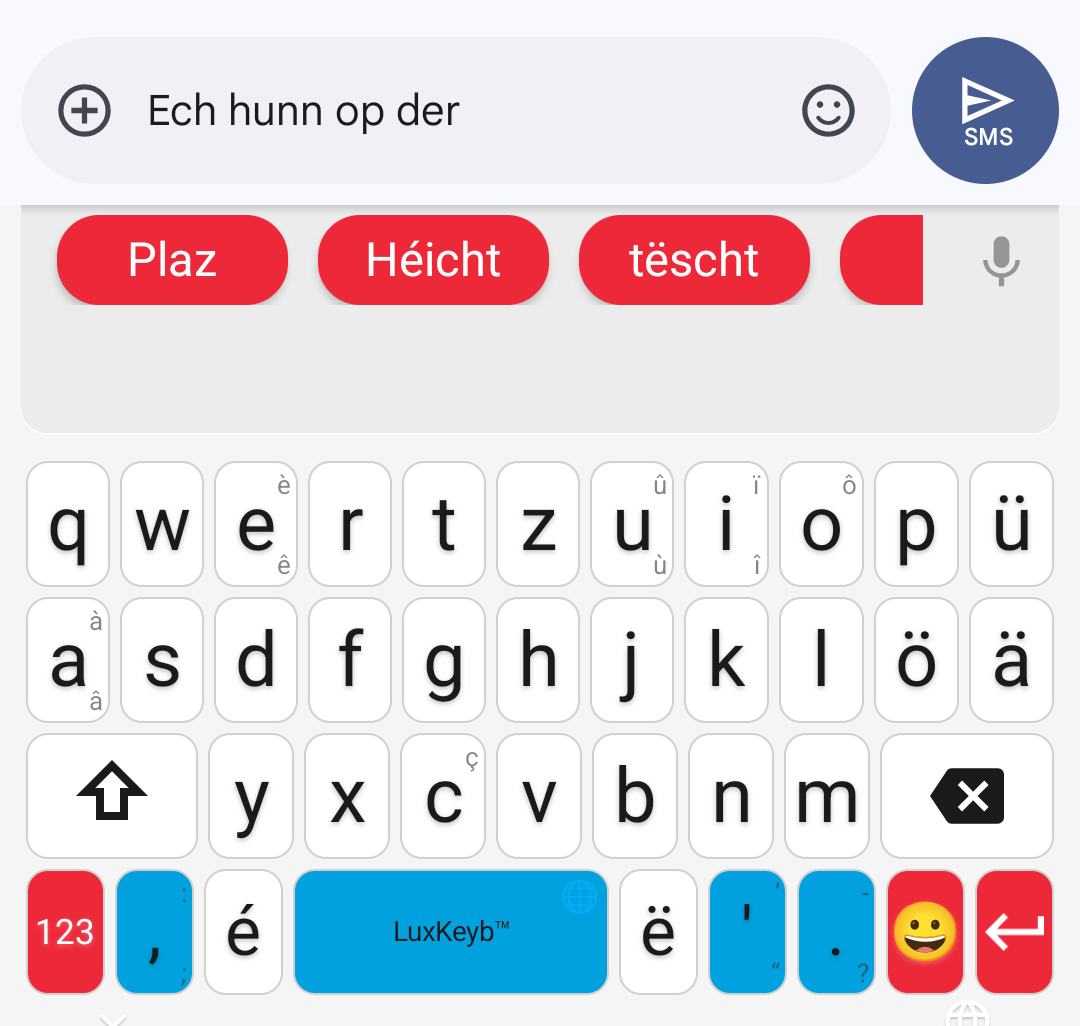
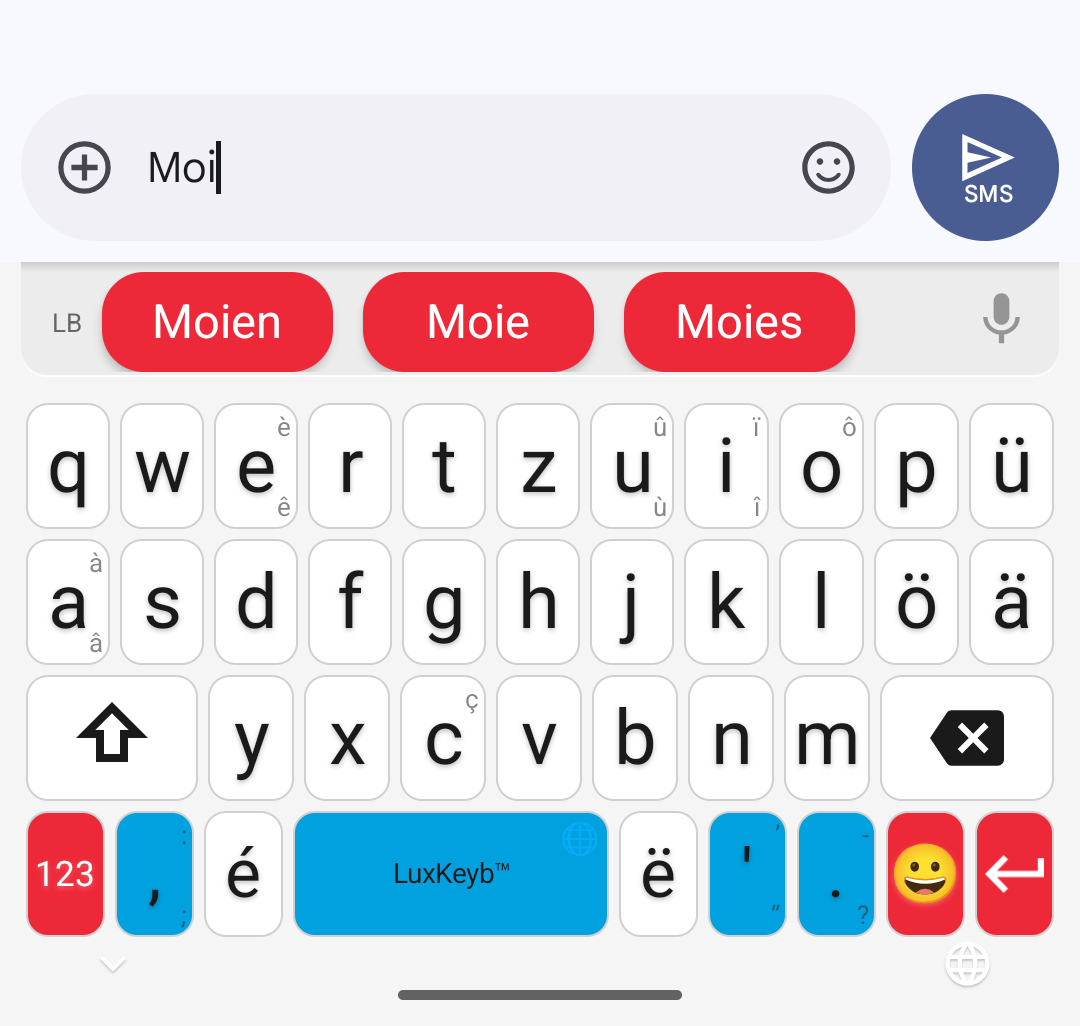
docs(site): le français est une option, plus un comportement par défaut
Depuis la 30.3.0 les propositions en français sont éteintes par défaut :
la page d'accueil et la fiche Play Store promettaient encore une seconde
rangée sans réglage pour « ech hunn eng réunion muer ». Elles disent
maintenant qu'il faut l'allumer (vérifié sur émulateur : « réunion »
arrive alors dès « réu »). La légende de la capture Play n° 1 le dit
aussi. lux_suggestions.png montrait « Ech hunn op der » alors que quatre
pages le décrivent comme la frappe de « Moi » : refait sur émulateur en
configuration par défaut, une seule rangée.

Claude-Session: https://claude.ai/code/session_017v16GDU5NnmPUr6u9MBxF1

Changed region(s): [[0.0, 0.4055, 0.9778, 0.9981], [0.0306, 0.0312, 1.0, 0.3743], [0.0917, 0.9981, 0.1222, 1.0]]

diff --git a/LuxKeybPlayStore/graphics/build_graphics.py b/LuxKeybPlayStore/graphics/build_graphics.py
@@ -86,7 +86,7 @@ ROUGE, BLEU, ENCRE, PAPIER = "#ED2939", "#00A1DE", "#1F2933", "#F5F5F3"
 SPECS = [
     ("Captures d'écran pour téléphone 1 (Suggestions)", "08-clavier-suggestions-lb-fr-recadre.png", None, "Suggestions",
      "Il vous souffle les mots",
-     "Le luxembourgeois d'abord, le français pour les emprunts, sans changer de clavier."),
+     "Le luxembourgeois d'abord, et en option le français pour les emprunts."),
     ("Captures d'écran pour téléphone 2 (Dictée)", "20-clavier-dictee-luxasr-recadre.png", None, "Dictée",
      "Parlez, il écrit en luxembourgeois",
      "Votre voix part à LuxASR, Université du Luxembourg, seulement quand vous touchez le micro."),

diff --git a/docs/index.md b/docs/index.md
@@ -211,8 +211,8 @@ et ses vraies suggestions.</em></p>
 <div style="display:flex;justify-content:center;gap:16px;flex-wrap:wrap;margin:24px 0;">
   <figure style="margin:0;flex:1 1 220px;max-width:300px;text-align:center;">
     <img src="Screenshots/lux_suggestions.png" style="width:100%;border-radius:6px;"
-         alt="Barre de suggestions : trois mots luxembourgeois en rouge, deux mots français en bleu, pendant la frappe de « Moi »">
-    <figcaption>Suggestions bilingues</figcaption>
+         alt="Barre de suggestions pendant la frappe de « Moi » : Moien, Moie et Moies, en rouge">
+    <figcaption>Suggestions en luxembourgeois</figcaption>
   </figure>
   <figure style="margin:0;flex:1 1 220px;max-width:300px;text-align:center;">
     <img src="Screenshots/lux_accents.png" style="width:100%;border-radius:6px;"
@@ -255,12 +255,13 @@ Le clavier reconnaît **123 297 formes** et **27 746 contextes** de prédiction.
 Après un espace, le clavier propose la suite probable de votre phrase d'après
 les deux mots que vous venez d'écrire, pas seulement le dernier.
 
-Les suggestions luxembourgeoises passent en premier ; le français prend le
-relais à partir de trois lettres si aucun mot luxembourgeois ne correspond.
-Vous n'avez donc rien à changer quand un mot français s'invite dans une phrase
-luxembourgeoise : « ech hunn eng réunion muer » s'écrit sans toucher au clavier.
-Le côté français se limite volontairement aux mots les plus courants : il est là
-pour les emprunts, pas pour rédiger en français.
+Les suggestions luxembourgeoises passent en premier. Pour glisser des mots
+français dans vos phrases, allumez « Propositions en français » dans les
+réglages du clavier : une seconde rangée, en bleu, les propose à partir de trois
+lettres, et « ech hunn eng réunion muer » s'écrit sans changer de clavier.
+L'option est éteinte par défaut, et le côté français se limite volontairement
+aux mots les plus courants : il est là pour les emprunts, pas pour rédiger en
+français.
 
 ### Il pardonne les fautes de frappe
 

diff --git a/LuxKeybPlayStore/texts/fichePlayStore.md b/LuxKeybPlayStore/texts/fichePlayStore.md
@@ -64,9 +64,9 @@ Les trois diacritiques qui portent la langue — é, ä et ë — ont chacune le
 • 27 746 contextes de prédiction : après un espace, le clavier propose la suite probable d'après les deux derniers mots, pas seulement le dernier
 • Les mots que vous employez souvent remontent d'eux-mêmes
 
-🇱🇺 🇫🇷 DEUX LANGUES, AUCUN RÉGLAGE
+🇱🇺 🇫🇷 LE FRANÇAIS EN OPTION
 
-Le luxembourgeois passe en premier, le français prend le relais sur une seconde rangée. « ech hunn eng réunion muer » s'écrit sans changer de clavier.
+Le luxembourgeois passe en premier. Allumez les propositions en français et une seconde rangée prend le relais : « ech hunn eng réunion muer » s'écrit sans changer de clavier.
 
 📖 UN DICTIONNAIRE DANS L'APPLICATION
 
@@ -118,8 +118,8 @@ Pas de saisie glissée : manque connu et prioritaire. La dictée ne fonctionne p
 Régénéré à chaque version depuis un corpus ouvert de luxembourgeois contemporain : les suggestions suivent l'usage réel de la langue, pas une liste figée. Un mot manque ? Signalez-le : github.com/famibelle/LuxKeyb
 ```
 
-3933 unités UTF-16 sur 4 000 (c'est ainsi que compte la Play Console,
-les drapeaux et quelques émojis valant 2 chacun). Il reste **67 caractères
+3952 unités UTF-16 sur 4 000 (c'est ainsi que compte la Play Console,
+les drapeaux et quelques émojis valant 2 chacun). Il reste **48 caractères
 de marge** : tout ajout suppose d'en retirer autant. Pour faire place à la
 dictée, la section « Pour qui ? » et la signature « Potomitan™ » ont été
 retirées : la première redisait le reste du texte, la seconde nommait une
